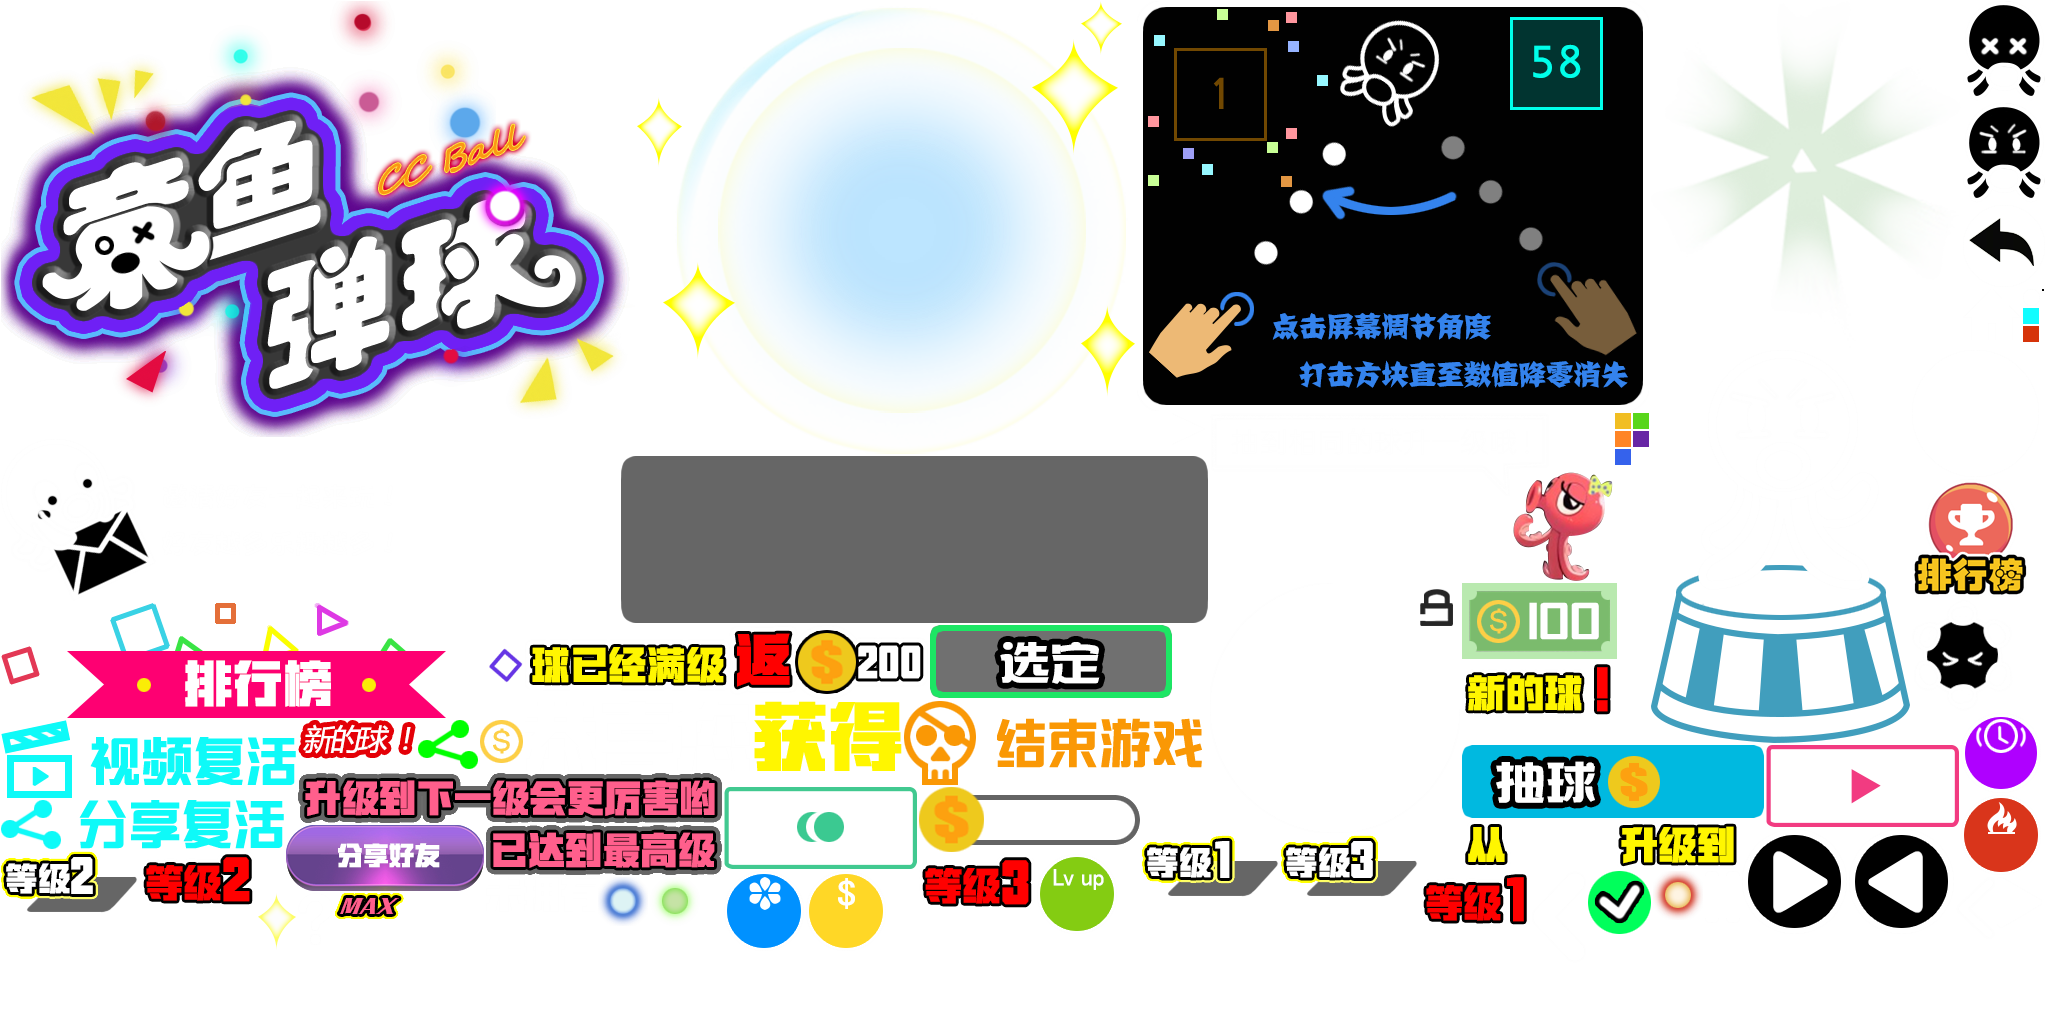
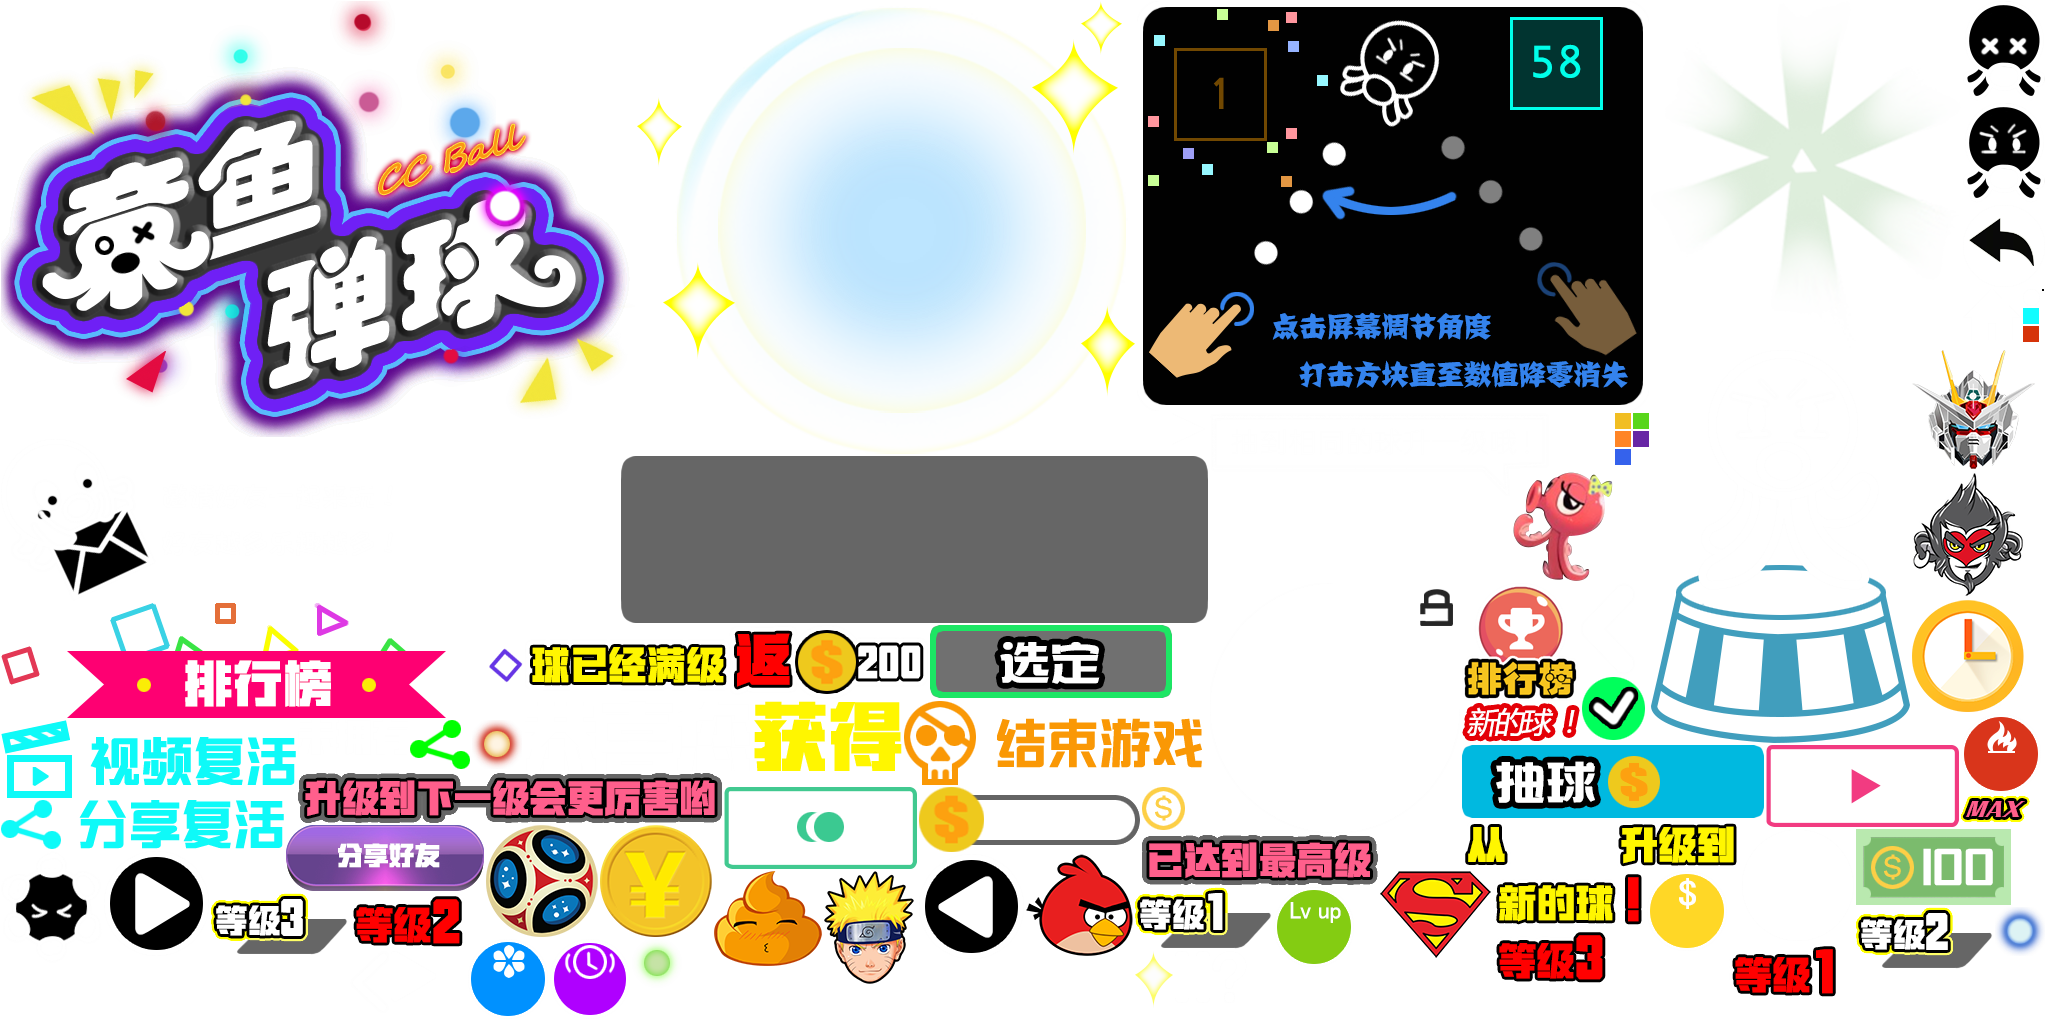
球的资源合入

Changed region(s): [[0.0, 0.3438, 1.0, 1.0], [0.6875, 0.5625, 0.8125, 0.75], [0.125, 0.6875, 0.2812, 0.75]]

diff --git a/BallProject/src/GameView/SecondaryView/ShopView.ts b/BallProject/src/GameView/SecondaryView/ShopView.ts
@@ -35,7 +35,7 @@ class ShopView extends egret.DisplayObjectContainer
     private selectedBitmap: egret.Bitmap;
 
     private lockBgBitmap: egret.Bitmap;
-    private lockTextBitmap: egret.Bitmap;
+    private lockText: egret.TextField;
 
 
     // 技能描述 -- begin
@@ -157,7 +157,7 @@ class ShopView extends egret.DisplayObjectContainer
         Tools.DetachDisplayObjFromParent(this.ballLevelBitmap);
         Tools.DetachDisplayObjFromParent(this.ballLevelMaxBitmap);
         Tools.DetachDisplayObjFromParent(this.lockBgBitmap);
-        Tools.DetachDisplayObjFromParent(this.lockTextBitmap);
+        Tools.DetachDisplayObjFromParent(this.lockText);
 
         var widthMidX = 320;
 
@@ -215,8 +215,18 @@ class ShopView extends egret.DisplayObjectContainer
         }
         else
         {
-            this.lockTextBitmap = this.resModule.CreateBitmap("lockText",
-                GameMain.GetInstance().GetStageWidth() / 2, ballPosy, this, AnchorType.Center);
+            this.lockText = new egret.TextField();
+            this.lockText.size = 35;
+            this.lockText.textColor = 0xFFFFFF;
+            this.lockText.text = "未拥有";
+            this.lockText.textAlign = "center";
+            this.lockText.strokeColor = 0x000000;
+            this.lockText.stroke = 3;
+            this.lockText.bold = true;
+            Tools.SetAnchor(this.lockText, AnchorType.Center);
+            this.lockText.x = GameMain.GetInstance().GetStageWidth() / 2;
+            this.lockText.y = ballPosy;
+            this.addChild(this.lockText);
         }
 
         this.ballNameText = new egret.TextField();
@@ -233,7 +243,7 @@ class ShopView extends egret.DisplayObjectContainer
         this.selectBallRoot.addChild(this.ballNameText);
 
         this.ballSkillText = new egret.TextField();
-        this.ballSkillText.size = GameMain.GetInstance().GetScreenRatio() > (16/9) ? 27 : 30;
+        this.ballSkillText.size = GameMain.GetInstance().GetScreenRatio() > (16 / 9) ? 27 : 30;
         this.ballSkillText.textColor = 0xFFFFFF;
         this.ballSkillText.text = "- " + curLevelBallConfig.skillDes + " -";
         this.ballSkillText.textAlign = "center";
